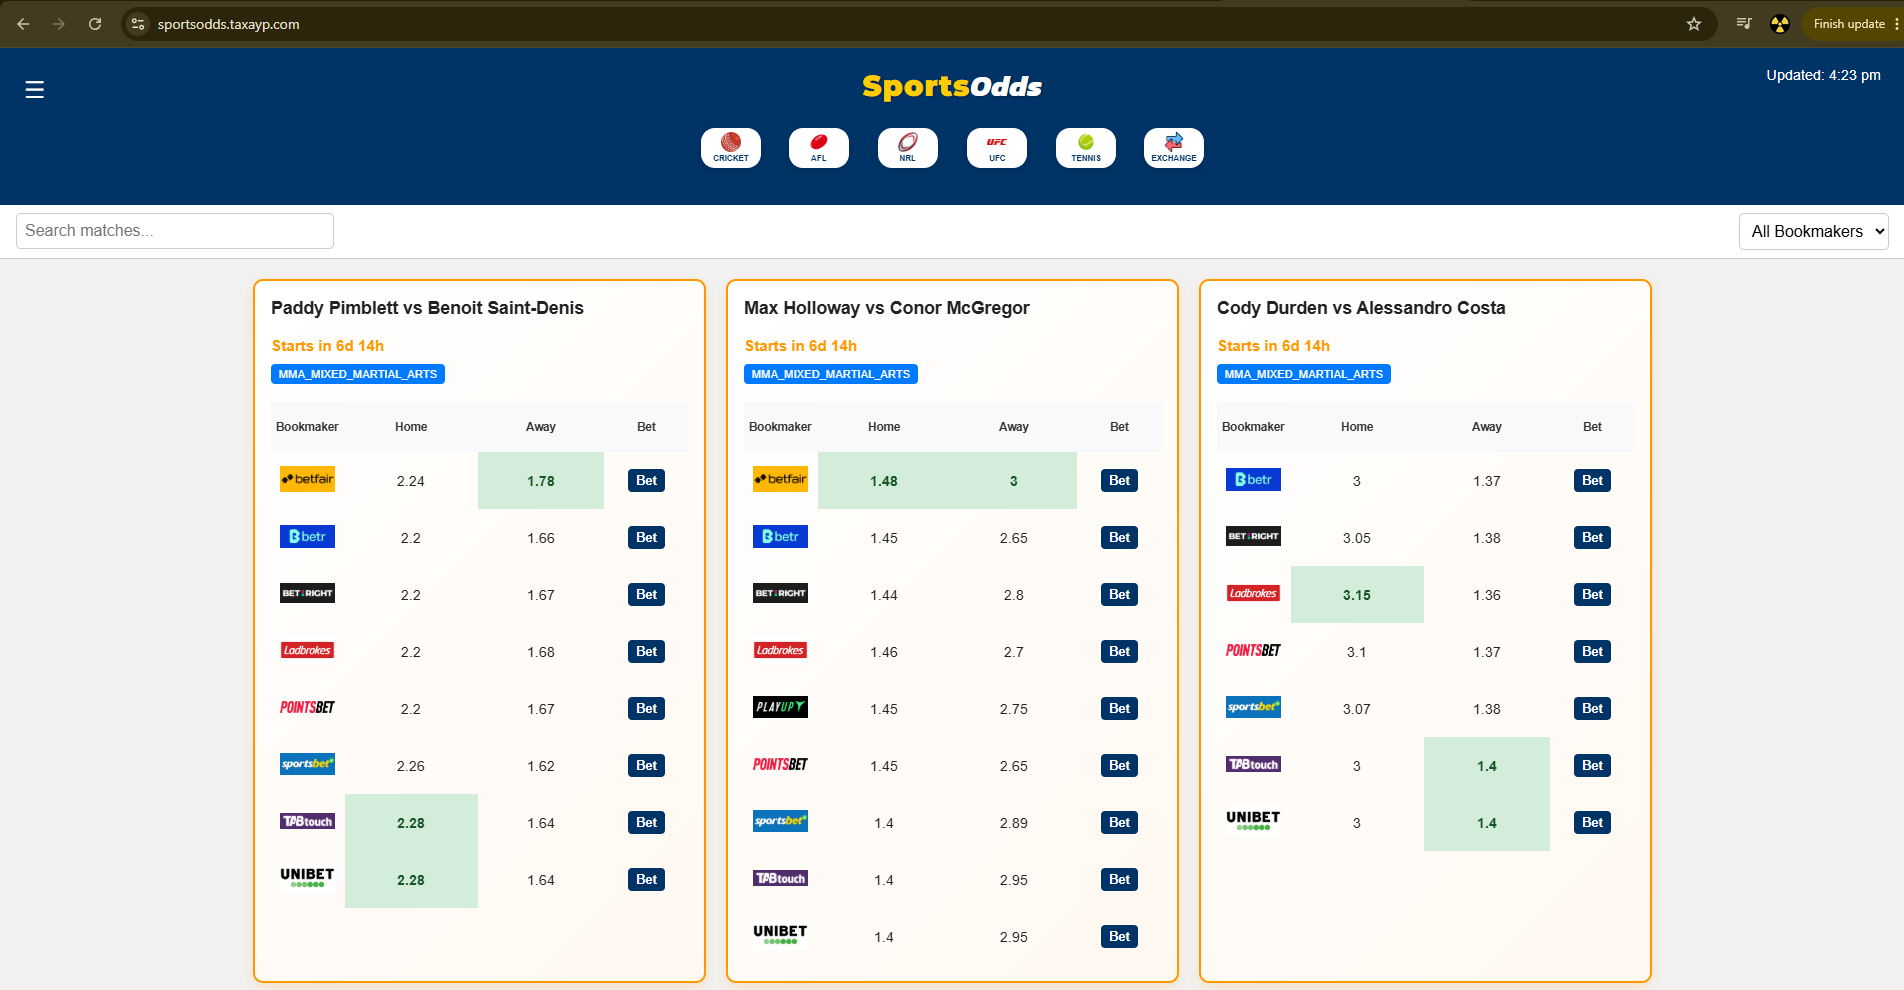
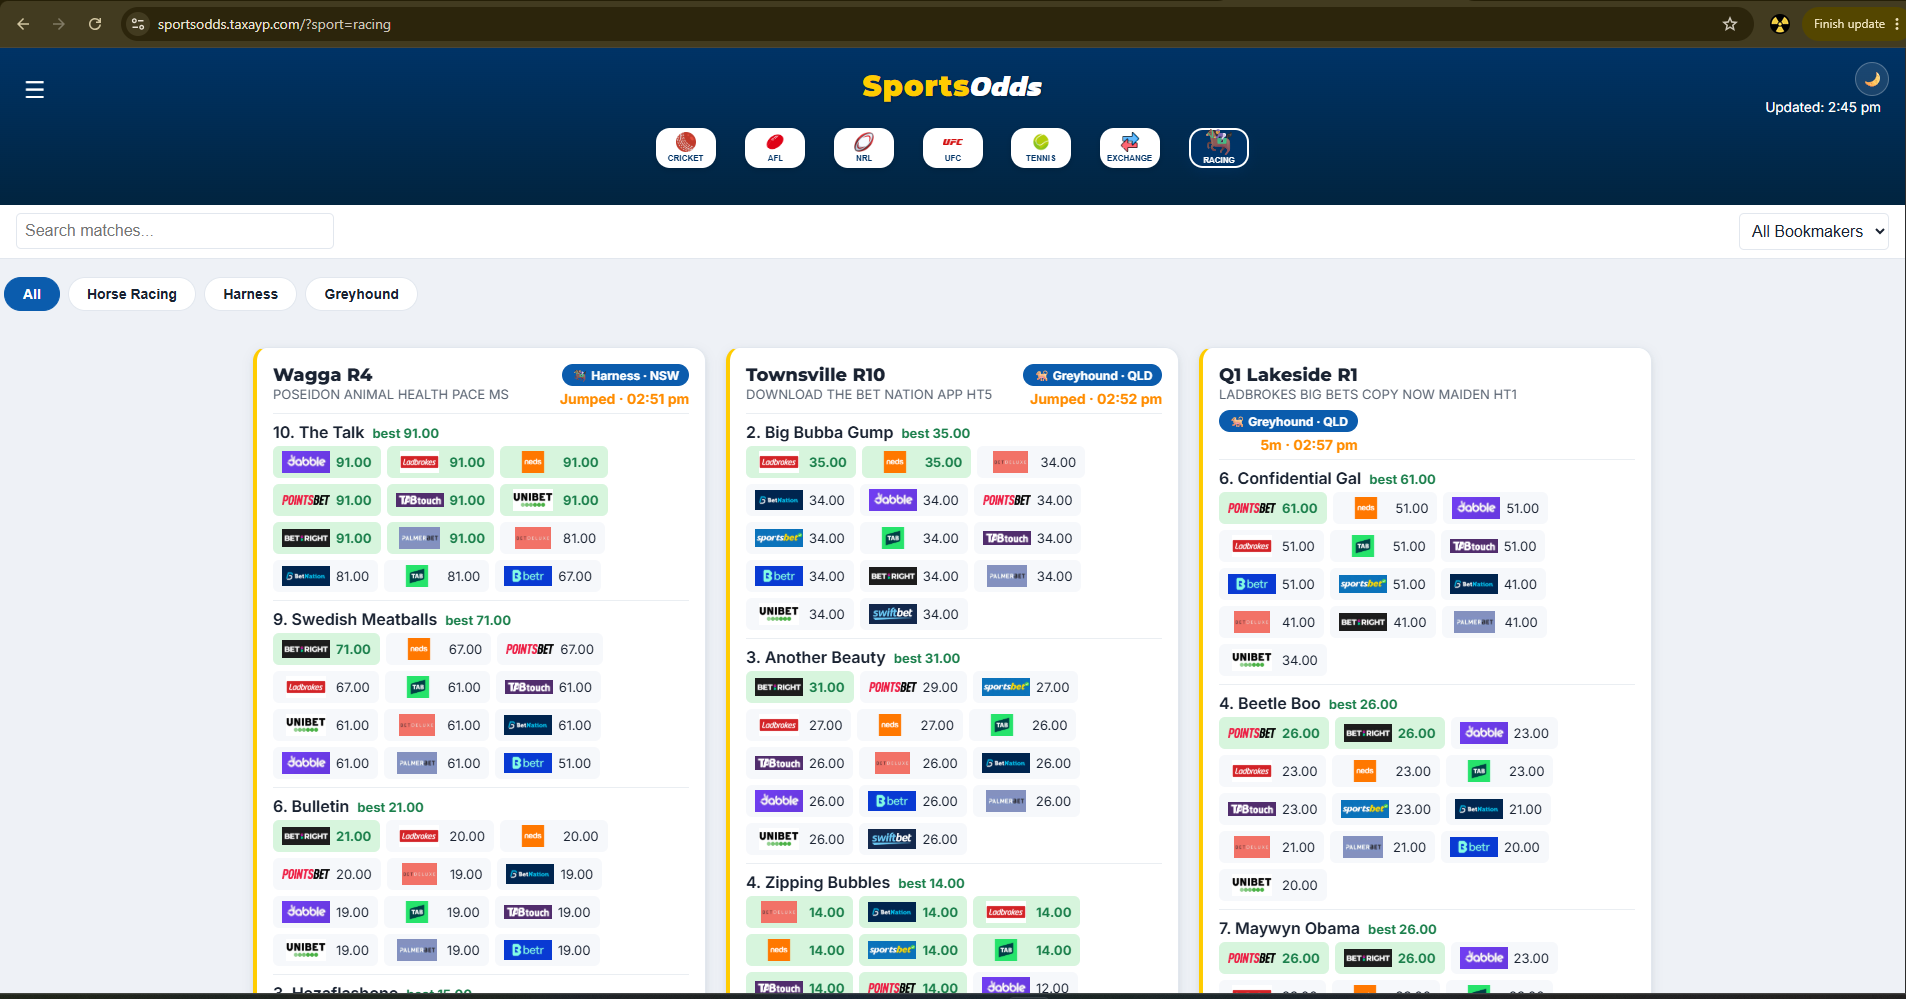
editing readme

diff --git a/README.md b/README.md
@@ -2,7 +2,7 @@
 
 ### Automated Kubernetes Infrastructure & Continuous Delivery
 
-> Enterprise-inspired GitOps platform powering a high-availability bare-metal Kubernetes cluster using ArgoCD, self-hosted GitLab CE, Kaniko, CloudNativePG, HashiCorp Vault, and Cloudflare Tunnel — with a full end-to-end CI/CD pipeline deployed to production.
+> Enterprise-inspired GitOps platform powering a high-availability bare-metal Kubernetes cluster using ArgoCD, self-hosted GitLab CE, Kaniko, Trivy, CloudNativePG, HashiCorp Vault, and Cloudflare Tunnel — with a full end-to-end CI/CD pipeline (including in-pipeline image security scanning) deployed to production.
 
 ---
 
@@ -10,7 +10,7 @@
 
 This repository is the declarative source of truth for all Kubernetes platform components and application deployments running on a six-node high-availability homelab cluster.
 
-The platform follows GitOps principles — all infrastructure and application changes are committed to Git, automatically reconciled by ArgoCD, and continuously converged to desired state. A complete CI/CD pipeline takes code from a developer's machine to a running container in the cluster with zero manual steps after the git push.
+The platform follows GitOps principles — all infrastructure and application changes are committed to Git, automatically reconciled by ArgoCD, and continuously converged to desired state. A complete CI/CD pipeline takes code from a developer's machine to a running container in the cluster with zero manual steps after the git push, gating deployment on a container vulnerability scan.
 
 The long-term objective is to evolve this into a hybrid Platform Engineering lab spanning on-premises infrastructure and AWS — using the homelab as the data plane and AWS for cloud-native compute workloads.
 
@@ -38,9 +38,13 @@ The long-term objective is to evolve this into a hybrid Platform Engineering lab
 │        │     Pushes SHA-tagged image to self-hosted registry    │
 │        │     registry.taxayp.com/taxayp/sportsodds:SHA          │
 │        │                                                        │
-│        └── Stage 2: update-manifests                            │
+│        ├── Stage 2: security                                    │
+│        │     Trivy scans the image for OS + dependency CVEs     │
+│        │     Fails on fixable CRITICAL — blocks deploy          │
+│        │                                                        │
+│        └── Stage 3: update-manifests                            │
 │              Auto-commits new image tag to this GitOps repo     │
-│              (apps/sportsodds/deployment.yaml + cronjob.yaml)   │
+│              (deployment.yaml + cronjob.yaml + racing-cronjob)  │
 └────────────────────────────┬────────────────────────────────────┘
                              │
                              │  ArgoCD detects manifest change
@@ -61,8 +65,8 @@ The long-term objective is to evolve this into a hybrid Platform Engineering lab
 │  │                                                          │   │
 │  │  Deployment (Node.js)  ◄──── CloudNativePG (PostgreSQL)  │   │
 │  │         +                         +                      │   │
-│  │  CronJob (odds fetch)        S3 automated backups        │   │
-│  │  runs every 12 hours                                     │   │
+│  │  CronJobs (odds fetch +      S3 automated backups        │   │
+│  │  racing fetch every 5 min)                               │   │
 │  └──────────────────────────┬───────────────────────────────┘   │
 │                             │                                   │
 │  ┌──────────────────────────────────────────────────────────┐   │
@@ -106,6 +110,7 @@ Developer  →  Private GitLab  →  ArgoCD  →  Cluster
 │       ├── namespace.yaml
 │       ├── deployment.yaml
 │       ├── cronjob.yaml
+│       ├── racing-cronjob.yaml
 │       ├── service.yaml
 │       ├── ingress.yaml
 │       ├── cnpg-cluster.yaml
@@ -138,6 +143,7 @@ Developer  →  Private GitLab  →  ArgoCD  →  Cluster
 ### CI/CD
 - Self-hosted GitLab CE (source, registry, pipelines)
 - GitLab CI + Kaniko (rootless container builds)
+- Trivy image vulnerability scanning (CVE gate, fails on fixable CRITICAL)
 - Automated image tag promotion via GitOps commit-back pattern
 - ArgoCD automated sync + selfHeal
 
@@ -180,7 +186,7 @@ Provisions: Proxmox VMs · CPU/RAM allocation · Static IPs · Base OS · Kubern
 
 ## Live Application
 
-**[sportsodds.taxayp.com](https://sportsodds.taxayp.com)** — Australian sports betting odds comparison (Cricket, AFL, NRL, Tennis, UFC). The only publicly exposed service — all others are internal only.
+**[sportsodds.taxayp.com](https://sportsodds.taxayp.com)** — Australian sports betting odds comparison (Cricket, AFL, NRL, Tennis, UFC, Racing, and Betfair Exchange). The only publicly exposed service — all others are internal only.
 
 ---
 
@@ -197,7 +203,7 @@ Provisions: Proxmox VMs · CPU/RAM allocation · Static IPs · Base OS · Kubern
 - Scraper bot workloads (Playwright-based, per-bookmaker, wave-concurrency)
 - Hybrid cloud: AWS EKS compute → homelab CloudNativePG data plane
 - HA monitoring alerts and PagerDuty/webhook integration
-- Trivy vulnerability scanning in CI pipeline
+- Additional supply-chain security (secret scanning, SBOM generation, policy gates)
 - Network policies and zero-trust security hardening
 - Multi-cluster ArgoCD management
 
@@ -205,4 +211,4 @@ Provisions: Proxmox VMs · CPU/RAM allocation · Static IPs · Base OS · Kubern
 
 ## Purpose
 
-A continuously evolving Platform Engineering lab built to simulate real-world practices: GitOps, Kubernetes, infrastructure as code, observability, secrets management, and cloud-native delivery. Built alongside CKA, AWS SAA, AWS DVA, and Terraform Associate certifications — with practical implementation going well beyond certification scope.
+A continuously evolving Platform Engineering lab built to simulate real-world practices: GitOps, Kubernetes, infrastructure as code, observability, secrets management, supply-chain security, and cloud-native delivery. Built alongside CKA, AWS SAA, AWS DVA, and Terraform Associate certifications — with practical implementation going well beyond certification scope.